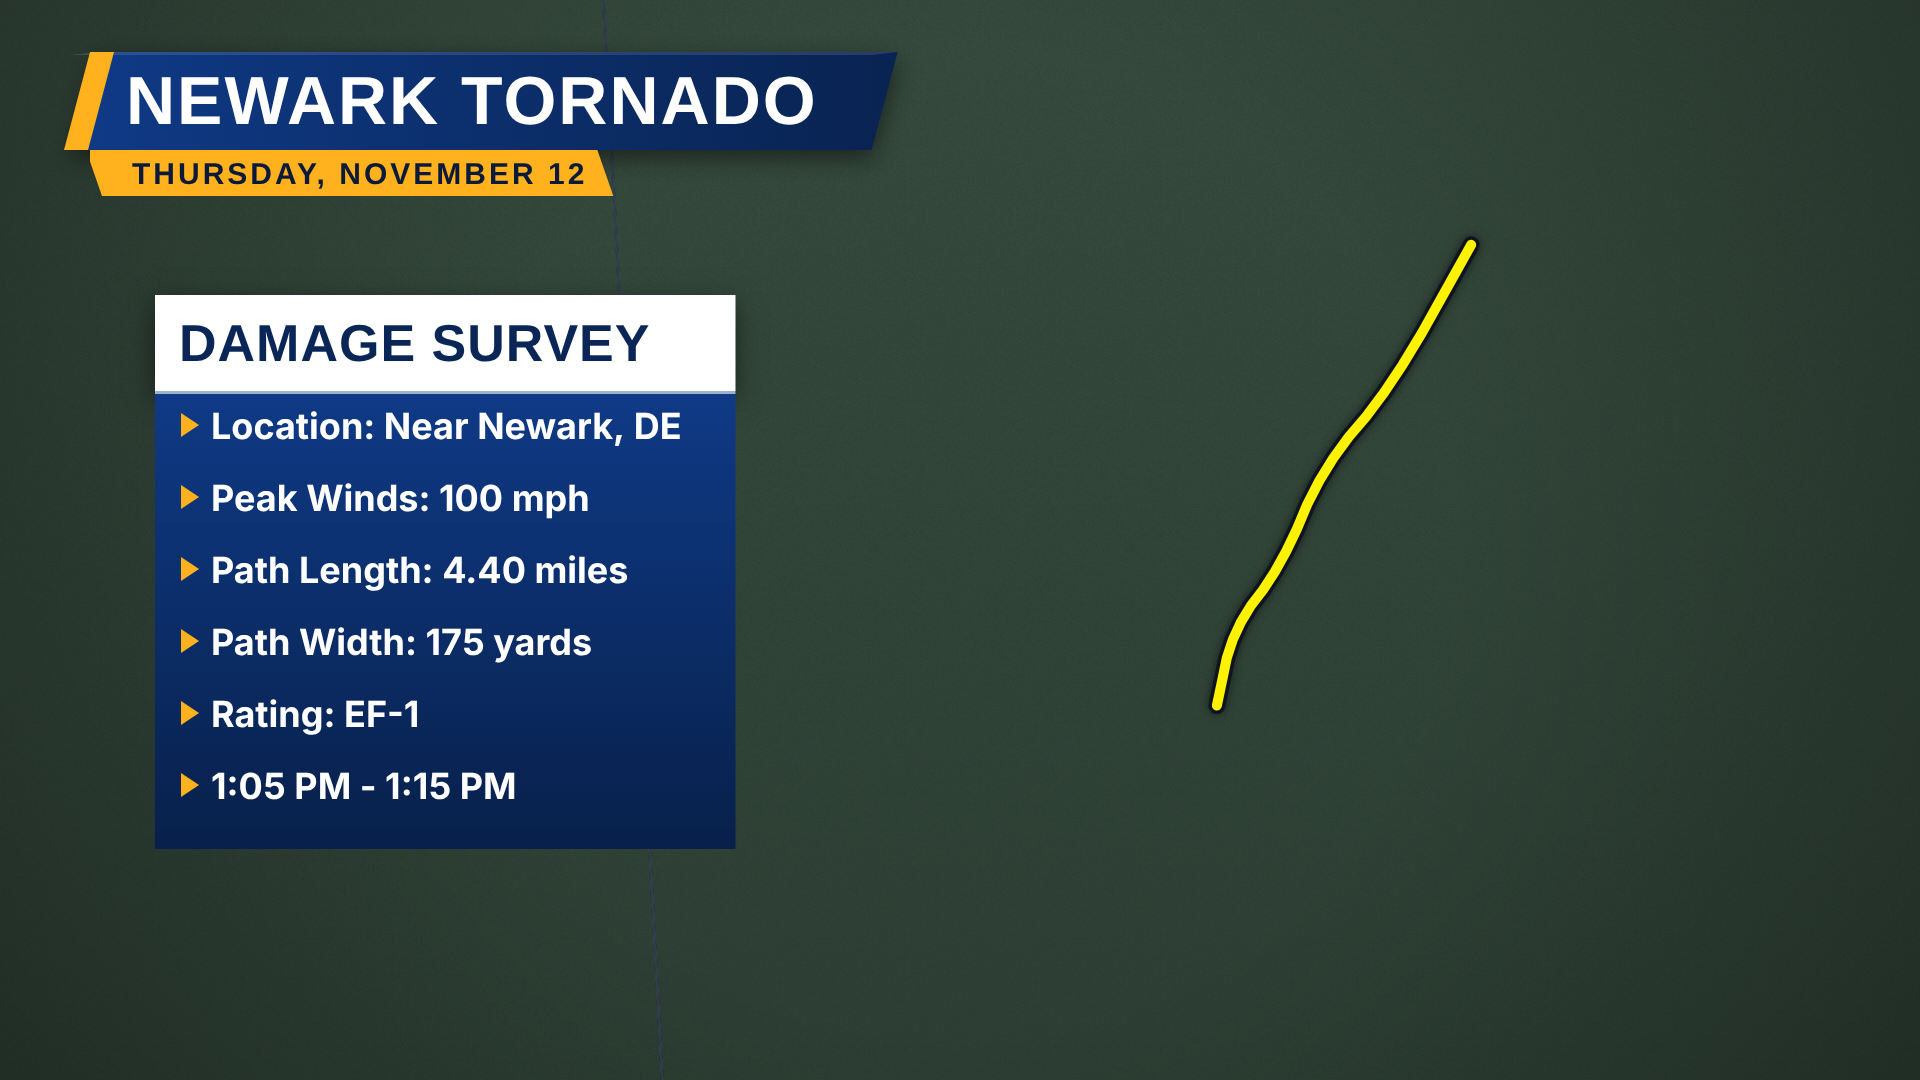
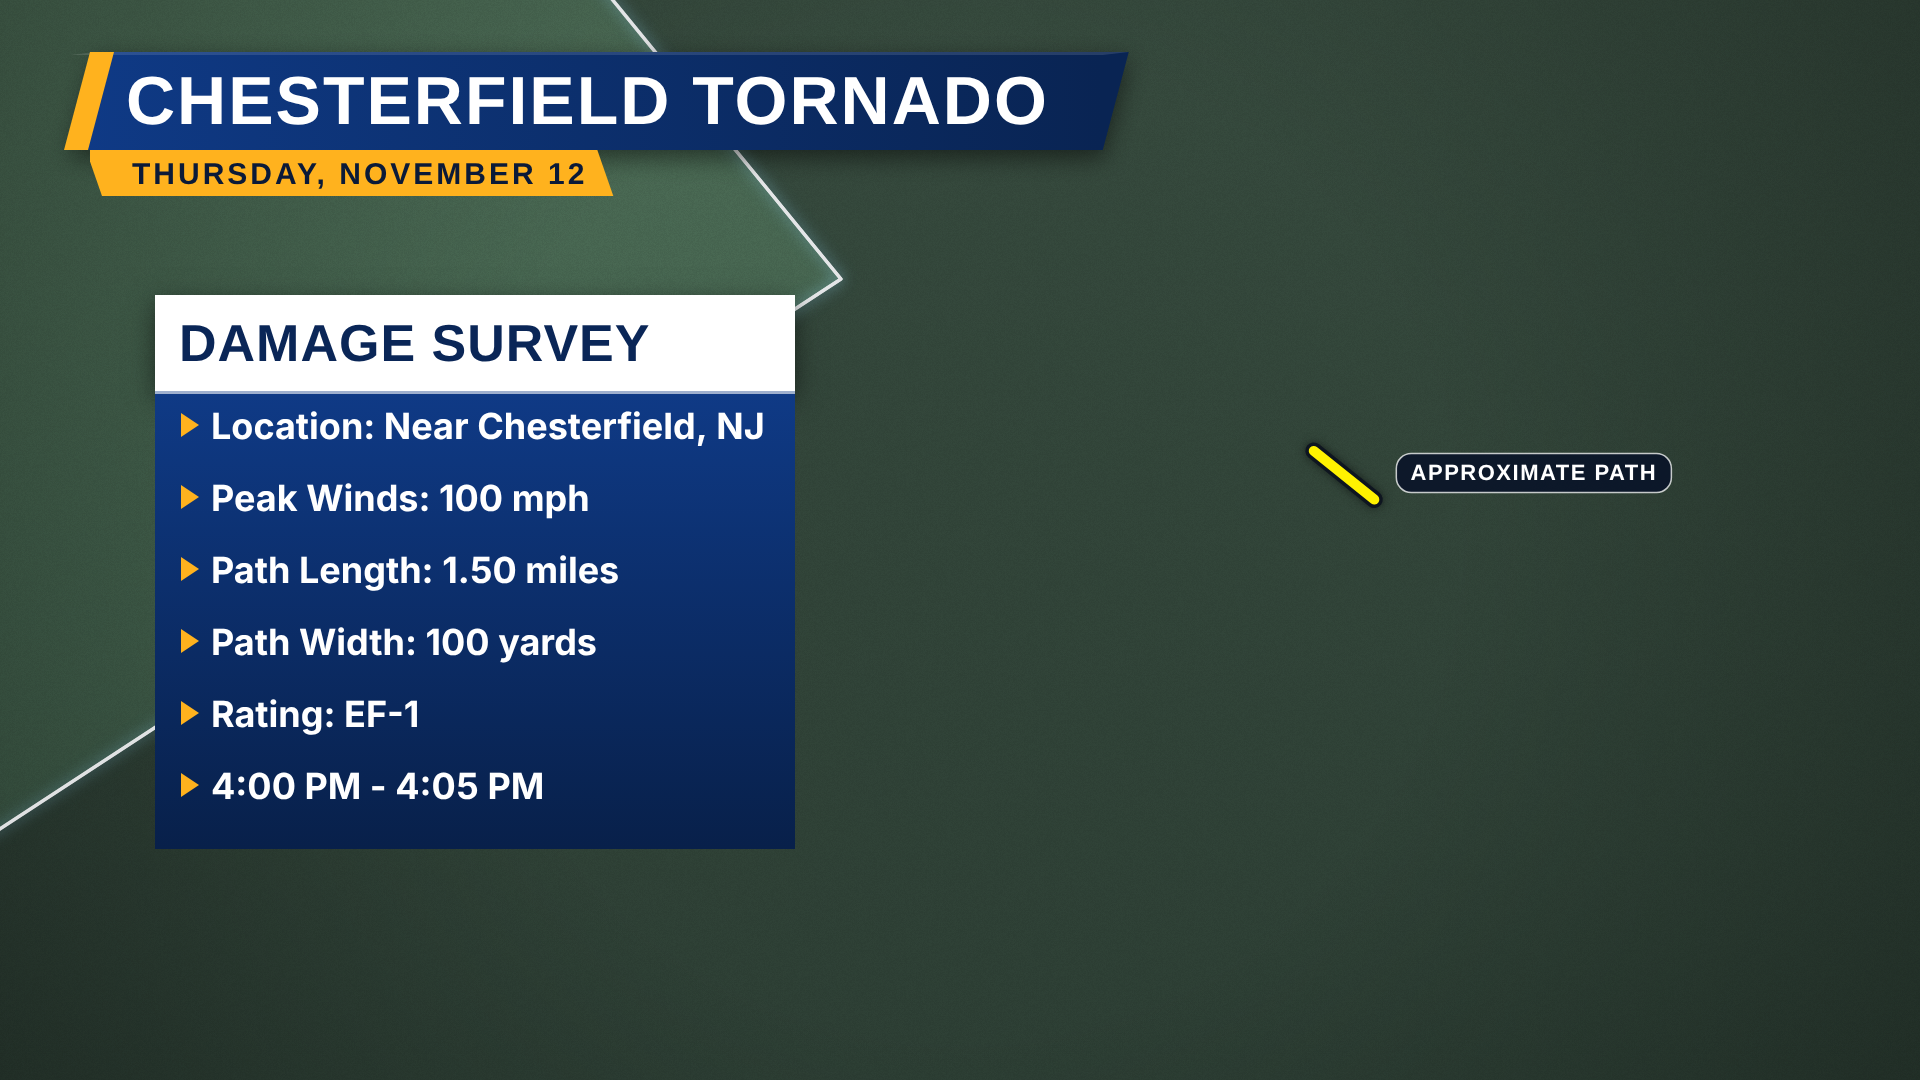
Label survey-statement and hand-drawn tornado paths as approximate
Claude-Session: https://claude.ai/code/session_01FE8V5e7DsKYQ6dWRjpq84c

diff --git a/index.html b/index.html
@@ -239,7 +239,7 @@ button.pill{cursor:pointer;background:transparent}
 <div class="status">
   <span><kbd>Space</kbd> play / stop</span><span><kbd>←</kbd><kbd>→</kbd> previous / next</span><span><kbd>V</kbd> select</span><span><kbd>T</kbd> pen</span><span><kbd>B</kbd> contour</span><span><kbd>N</kbd> total</span><span><kbd>Del</kbd> delete selection</span><span><kbd>E</kbd> export PNG</span><span><kbd>K</kbd> storm track</span><span><kbd>L</kbd> map label</span><span><kbd>1</kbd>–<kbd>9</kbd> cue</span><span><kbd>Enter</kbd> take</span>
   <span id="srcNote"></span>
-  <span id="buildTag" style="margin-left:auto;opacity:.6">Build 2026-11-14 · 29</span>
+  <span id="buildTag" style="margin-left:auto;opacity:.6">Build 2026-11-14 · 30</span>
 </div>
 <input type="file" id="fileIn" accept=".json,application/json" hidden>
 
@@ -2151,10 +2151,11 @@ function datTracks(per,base){const key=per+'|'+base;let D=datCache[key];if(D&&(D
 function drawDatTracks(g,P,list,t,o){const q=ease((t-.6)/.8);if(o.interactive)hits.stracks=[];if(q<=0)return;g.save();g.lineCap='round';g.lineJoin='round';
   list.forEach(T=>{const col=EF_COL[T.ef]||'#ffffff';const segs=T.lines.map(l=>l.map(([lo,la])=>[P.x(lo),P.y(la)]));segs.forEach(sg=>{g.globalAlpha=q;g.strokeStyle='rgba(0,0,0,.8)';g.lineWidth=13;g.beginPath();sg.forEach(([x,y],i)=>i?g.lineTo(x,y):g.moveTo(x,y));g.stroke();g.strokeStyle=col;g.lineWidth=8;g.stroke()});
     if(o.interactive)hits.stracks.push({id:T.id,segs});const sg=segs[0],m=sg[Math.floor(sg.length/2)]||sg[0];if(m&&q>.6){const f=`800 18px ${FD}`,w=measure(g,T.ef,f,1)+16;g.globalAlpha=1;g.fillStyle=col;rr(g,m[0]+10,m[1]-30,w,26,6);g.fill();g.strokeStyle='#0a1a3a';g.lineWidth=2;g.stroke();text(g,T.ef,m[0]+10+w/2,m[1]-16,f,'#0b1a38','center','middle',1)}});g.restore()}
+function approxTag(g,x,y,fz,left){const f=`800 ${fz}px ${FD}`,lab='APPROXIMATE PATH',w=measure(g,lab,f,1.5)+fz*1.3,h=Math.round(fz*1.75);if(left)x-=w;x=clamp(x,12,W-w-12);y=clamp(y,12,H-h-12);g.save();g.fillStyle='rgba(8,18,40,.88)';rr(g,x,y,w,h,h/2.6);g.fill();g.strokeStyle='rgba(255,255,255,.75)';g.lineWidth=1.5;g.stroke();text(g,lab,x+w/2,y+h/2+1,f,'#ffffff','center','middle',1.5);g.restore()}
 function datHit(p){let best=null,bd=14*14;(hits.stracks||[]).forEach(h=>h.segs.forEach(sg=>{for(let i=1;i<sg.length;i++){const a=sg[i-1],b=sg[i];const l2=(b[0]-a[0])**2+(b[1]-a[1])**2||1;const u=clamp(((p[0]-a[0])*(b[0]-a[0])+(p[1]-a[1])*(b[1]-a[1]))/l2);const d=(p[0]-a[0]-u*(b[0]-a[0]))**2+(p[1]-a[1]-u*(b[1]-a[1]))**2;if(d<bd){bd=d;best=h}}}));return best}
 function datInfo(T){const parts=[T.len?T.len.toFixed(1)+' mi path':'',T.wid?Math.round(T.wid)+' yd wide':'',T.wind?'peak '+T.wind+' mph':''].filter(Boolean).join(' · ');
   const tm=T.start?T.start.toLocaleString([], {month:'short',day:'numeric',hour:'numeric',minute:'2-digit'})+(T.end?' to '+T.end.toLocaleTimeString([], {hour:'numeric',minute:'2-digit'}):''):'';
-  const cas=T.inj||T.dead?`Injuries ${T.inj}, deaths ${T.dead}. `:'';return{band:EF_COL[T.ef]||'#ffffff',dark:['EF0','EF1','EF2','EFU'].includes(T.ef),title:T.ef+' TORNADO · CONFIRMED',l1:parts||'NWS damage survey',l2:[tm,T.wfo?'NWS '+T.wfo:''].filter(Boolean).join(' · '),remark:(cas+T.remark).trim()}}
+  const cas=T.inj||T.dead?`Injuries ${T.inj}, deaths ${T.dead}. `:'';return{band:EF_COL[T.ef]||'#ffffff',dark:['EF0','EF1','EF2','EFU'].includes(T.ef),title:T.ef+' TORNADO · CONFIRMED',l1:parts||'NWS damage survey',l2:[tm,T.wfo?'NWS '+T.wfo:''].filter(Boolean).join(' · '),remark:((/^p:/.test(T.id)?'Approximate path, drawn start to end from the NWS survey. ':'')+cas+T.remark).trim()}}
 function srCard(g,r,P,t,at,info){const x=at?at[0]:P.x(r.lon),y=at?at[1]:P.y(r.lat);const q=ease((t)/.3);let cw=580,fs=22;const f2=`700 24px ${FD}`;
   const I=info||{band:SR_TYPES[r.k][1],dark:false,title:srTitle(r),l1:[r.city,r.county?r.county+' Co.':'',r.st].filter(Boolean).join(', ')||'Location not given',l2:r.time?r.time.toLocaleString([], {weekday:'short',hour:'numeric',minute:'2-digit'})+(r.src?' · '+r.src:''):(r.src||''),remark:r.remark};
   const avail=H-110-215-166;let rem=[],lh=30,f3=`600 22px ${FB}`;if(I.remark){for(const[w2,z]of[[580,22],[720,22],[820,21],[880,19],[920,17],[920,15]]){cw=w2;fs=z;lh=Math.round(z*1.36);f3=`600 ${z}px ${FB}`;rem=wrapLines(g,I.remark,f3,cw-56,200);if(rem.length*lh<=avail)break}if(rem.length*lh>avail)rem=rem.slice(0,Math.floor(avail/lh))}const ch=150+(rem.length?rem.length*lh+16:0);
@@ -2215,7 +2216,7 @@ function renderSurvey(g,sc,t,o){const rk=sc.region,P=proj(rk),T=sc.trk;if(T&&!T.
   const drawPath=(lines,rev,col)=>{g.save();g.lineCap='round';g.lineJoin='round';lines.forEach(l=>{const raw=l.map(([lo,la])=>[P.x(lo),P.y(la)]);if(raw.length<2)return;const p=chaikin(raw,2),c=polyLen(p),L=c[c.length-1]*clamp(rev);if(L<2)return;const vis=polySlice(p,c,0,L);
       g.shadowColor='rgba(0,0,0,.6)';g.shadowBlur=10;strokePoly(g,vis,'rgba(10,16,30,.85)',17);g.shadowBlur=0;strokePoly(g,vis,col,10)});g.restore()};
   const efm=String(sc.sv_ef||'').toUpperCase().match(/EF\s*-?\s*([0-5U])/),efK=efm?'EF'+efm[1]:T&&T.ef;const col=sc.trkCol==='ef'&&EF_COL[efK]?EF_COL[efK]:'#fff200';
-  if(T&&T.lines&&T.lines.length)drawPath(T.lines,(t-.9)/1.6,col);
+  if(T&&T.lines&&T.lines.length){drawPath(T.lines,(t-.9)/1.6,col);if((sc.track==='manual'||/^p:/.test(String(T.id||'')))&&t>2.2){const l=T.lines[T.lines.length-1],e=l[l.length-1],s0=T.lines[0][0];const ex=P.x(e[0]),ey=P.y(e[1]),sx=P.x(s0[0]);g.save();g.globalAlpha=ease((t-2.2)/.4);approxTag(g,ex>=sx?ex+22:ex-22,ey-46,22,ex<sx);g.restore()}}
   if(o.interactive&&draft&&draft.kind==='svpath'&&draft.id===sc.id)drawPath([draft.pts],1,'#fff200');
   drawMapLabels(g,sc,P,o,t);
   const rows=surveyRows(sc);const q=ease((t-.3)/.6);if(q>0&&(rows.length||T)){const f=`700 36px ${FB}`,fl=`600 36px ${FB}`;let w=480;rows.forEach(([k,v])=>{w=Math.max(w,measure(g,(k?k+': ':'')+v,f)+110)});w=Math.min(w,640);const x=155-(1-q)*700,y=295,hh=96,rh=72,bh=rows.length*rh+26;
